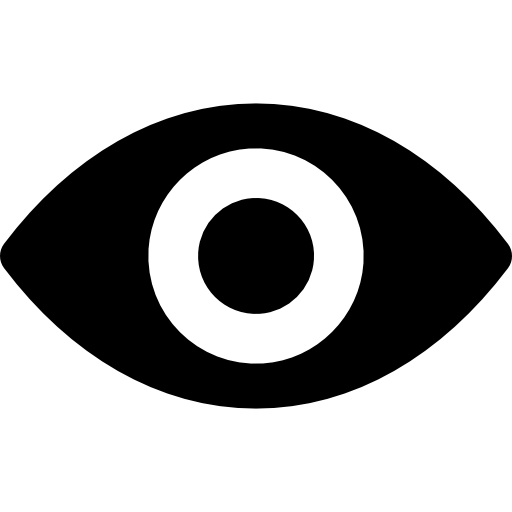
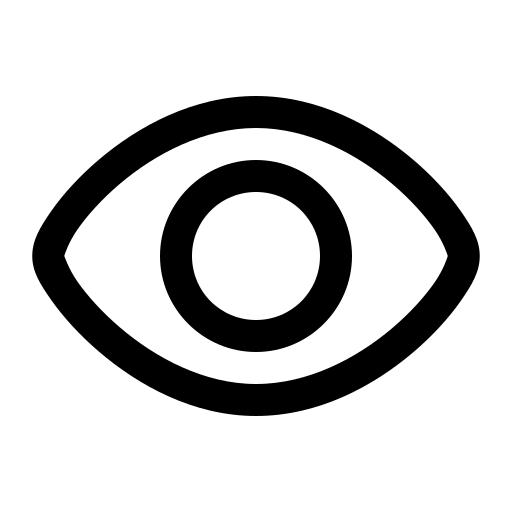
Added show/hide password eye LOL

diff --git a/app/templates/auth/login.html b/app/templates/auth/login.html
@@ -1,17 +1,7 @@
 {% extends "base.html" %}
 {% block content %}
 
-<script>
-    function myFunction() {
-        var x = document.getElementById("pwdInput");
-        if (x.type === "password") {
-            x.type = "text";
-        }
-        else {
-            x.type = "password";
-        }
-    }
-</script>
+
 
 <div class="flex flex-col items-center">
     <form class="border-2 border-solid border-sky-400 rounded-lg text-stone-800 bg-white flex flex-col items-center p-4 mt-24 w-1/3 min-w-fit form-anticlear" action="/login" method="POST">
@@ -26,17 +16,37 @@
             </div>
             <div class="flex flex-col">
                 <span class="text-xl">Пароль</span>
-                {% with messages = get_flashed_messages() %}
-                    {% if "Неверный логин или пароль" in messages %}
-                        <input id="pwdInput" type="password" name="password" class="text-2xl bg-neutral-100 border-2 border-solid border-red-600 bg-red-300 rounded-md p-2 focus:border-neutral-300 focus:bg-neutral-100" required>
-                    {% else %}
-                        <input id="pwdInput" type="password" name="password" class="text-2xl bg-neutral-100 border-2 border-solid border-neutral-300 rounded-md p-2" required>
-                    {% endif %}
-                {% endwith %}
+                <div class="flex items-center">
+                    {% with messages = get_flashed_messages() %}
+                        {% if "Неверный логин или пароль" in messages %}
+                            <input id="pwdInput" type="password" name="password" class="w-full text-2xl bg-neutral-100 border-2 border-solid border-red-600 bg-red-300 rounded-md p-2 pr-12 focus:border-neutral-300 focus:bg-neutral-100" required>
+                        {% else %}
+                            <input id="pwdInput" type="password" name="password" class="w-full text-2xl bg-neutral-100 border-2 border-solid border-neutral-300 rounded-md p-2" required>
+                        {% endif %}
+                    {% endwith %}
+                    <img class="-ml-10 cursor-pointer w-8 h-8" src="/static/images/pwd_hide.png" id="togglePassword">
+                </div>
             </div>
         </div>
         <input type="hidden" name="next" value="{{ request.args.get('next', '') }}">
         <input class="hover: cursor-pointer px-16 py-4 rounded-xl text-lg text-white font-semibold bg-blue-400 hover:bg-blue-500 active:bg-blue-600" type="submit" value="Войти">
     </form>
 </div>
+
+<script>
+    const togglePassword = document.querySelector('#togglePassword');
+    const password = document.querySelector('#pwdInput');
+
+    togglePassword.addEventListener('click', function (e) {
+        // toggle the type attribute
+        const type = password.getAttribute('type') === 'password' ? 'text' : 'password';
+        password.setAttribute('type', type);
+        if (type === 'password') {
+            this.src = '/static/images/pwd_hide.png';
+        }
+        else {
+            this.src = '/static/images/pwd_show.png';
+        }
+    });
+</script>
 {% endblock %}

diff --git a/app/static/css/tailwind.css b/app/static/css/tailwind.css
@@ -562,6 +562,18 @@ video {
   margin-top: 1rem;
 }
 
+.-ml-8 {
+  margin-left: -2rem;
+}
+
+.-ml-12 {
+  margin-left: -3rem;
+}
+
+.-ml-10 {
+  margin-left: -2.5rem;
+}
+
 .block {
   display: block;
 }
@@ -602,6 +614,14 @@ video {
   height: 1px;
 }
 
+.h-2 {
+  height: 0.5rem;
+}
+
+.h-8 {
+  height: 2rem;
+}
+
 .w-1\/2 {
   width: 50%;
 }
@@ -624,6 +644,14 @@ video {
 
 .w-full {
   width: 100%;
+}
+
+.w-2 {
+  width: 0.5rem;
+}
+
+.w-8 {
+  width: 2rem;
 }
 
 .min-w-fit {
@@ -882,6 +910,18 @@ video {
 
 .pb-3 {
   padding-bottom: 0.75rem;
+}
+
+.pr-4 {
+  padding-right: 1rem;
+}
+
+.pr-8 {
+  padding-right: 2rem;
+}
+
+.pr-12 {
+  padding-right: 3rem;
 }
 
 .text-center {
